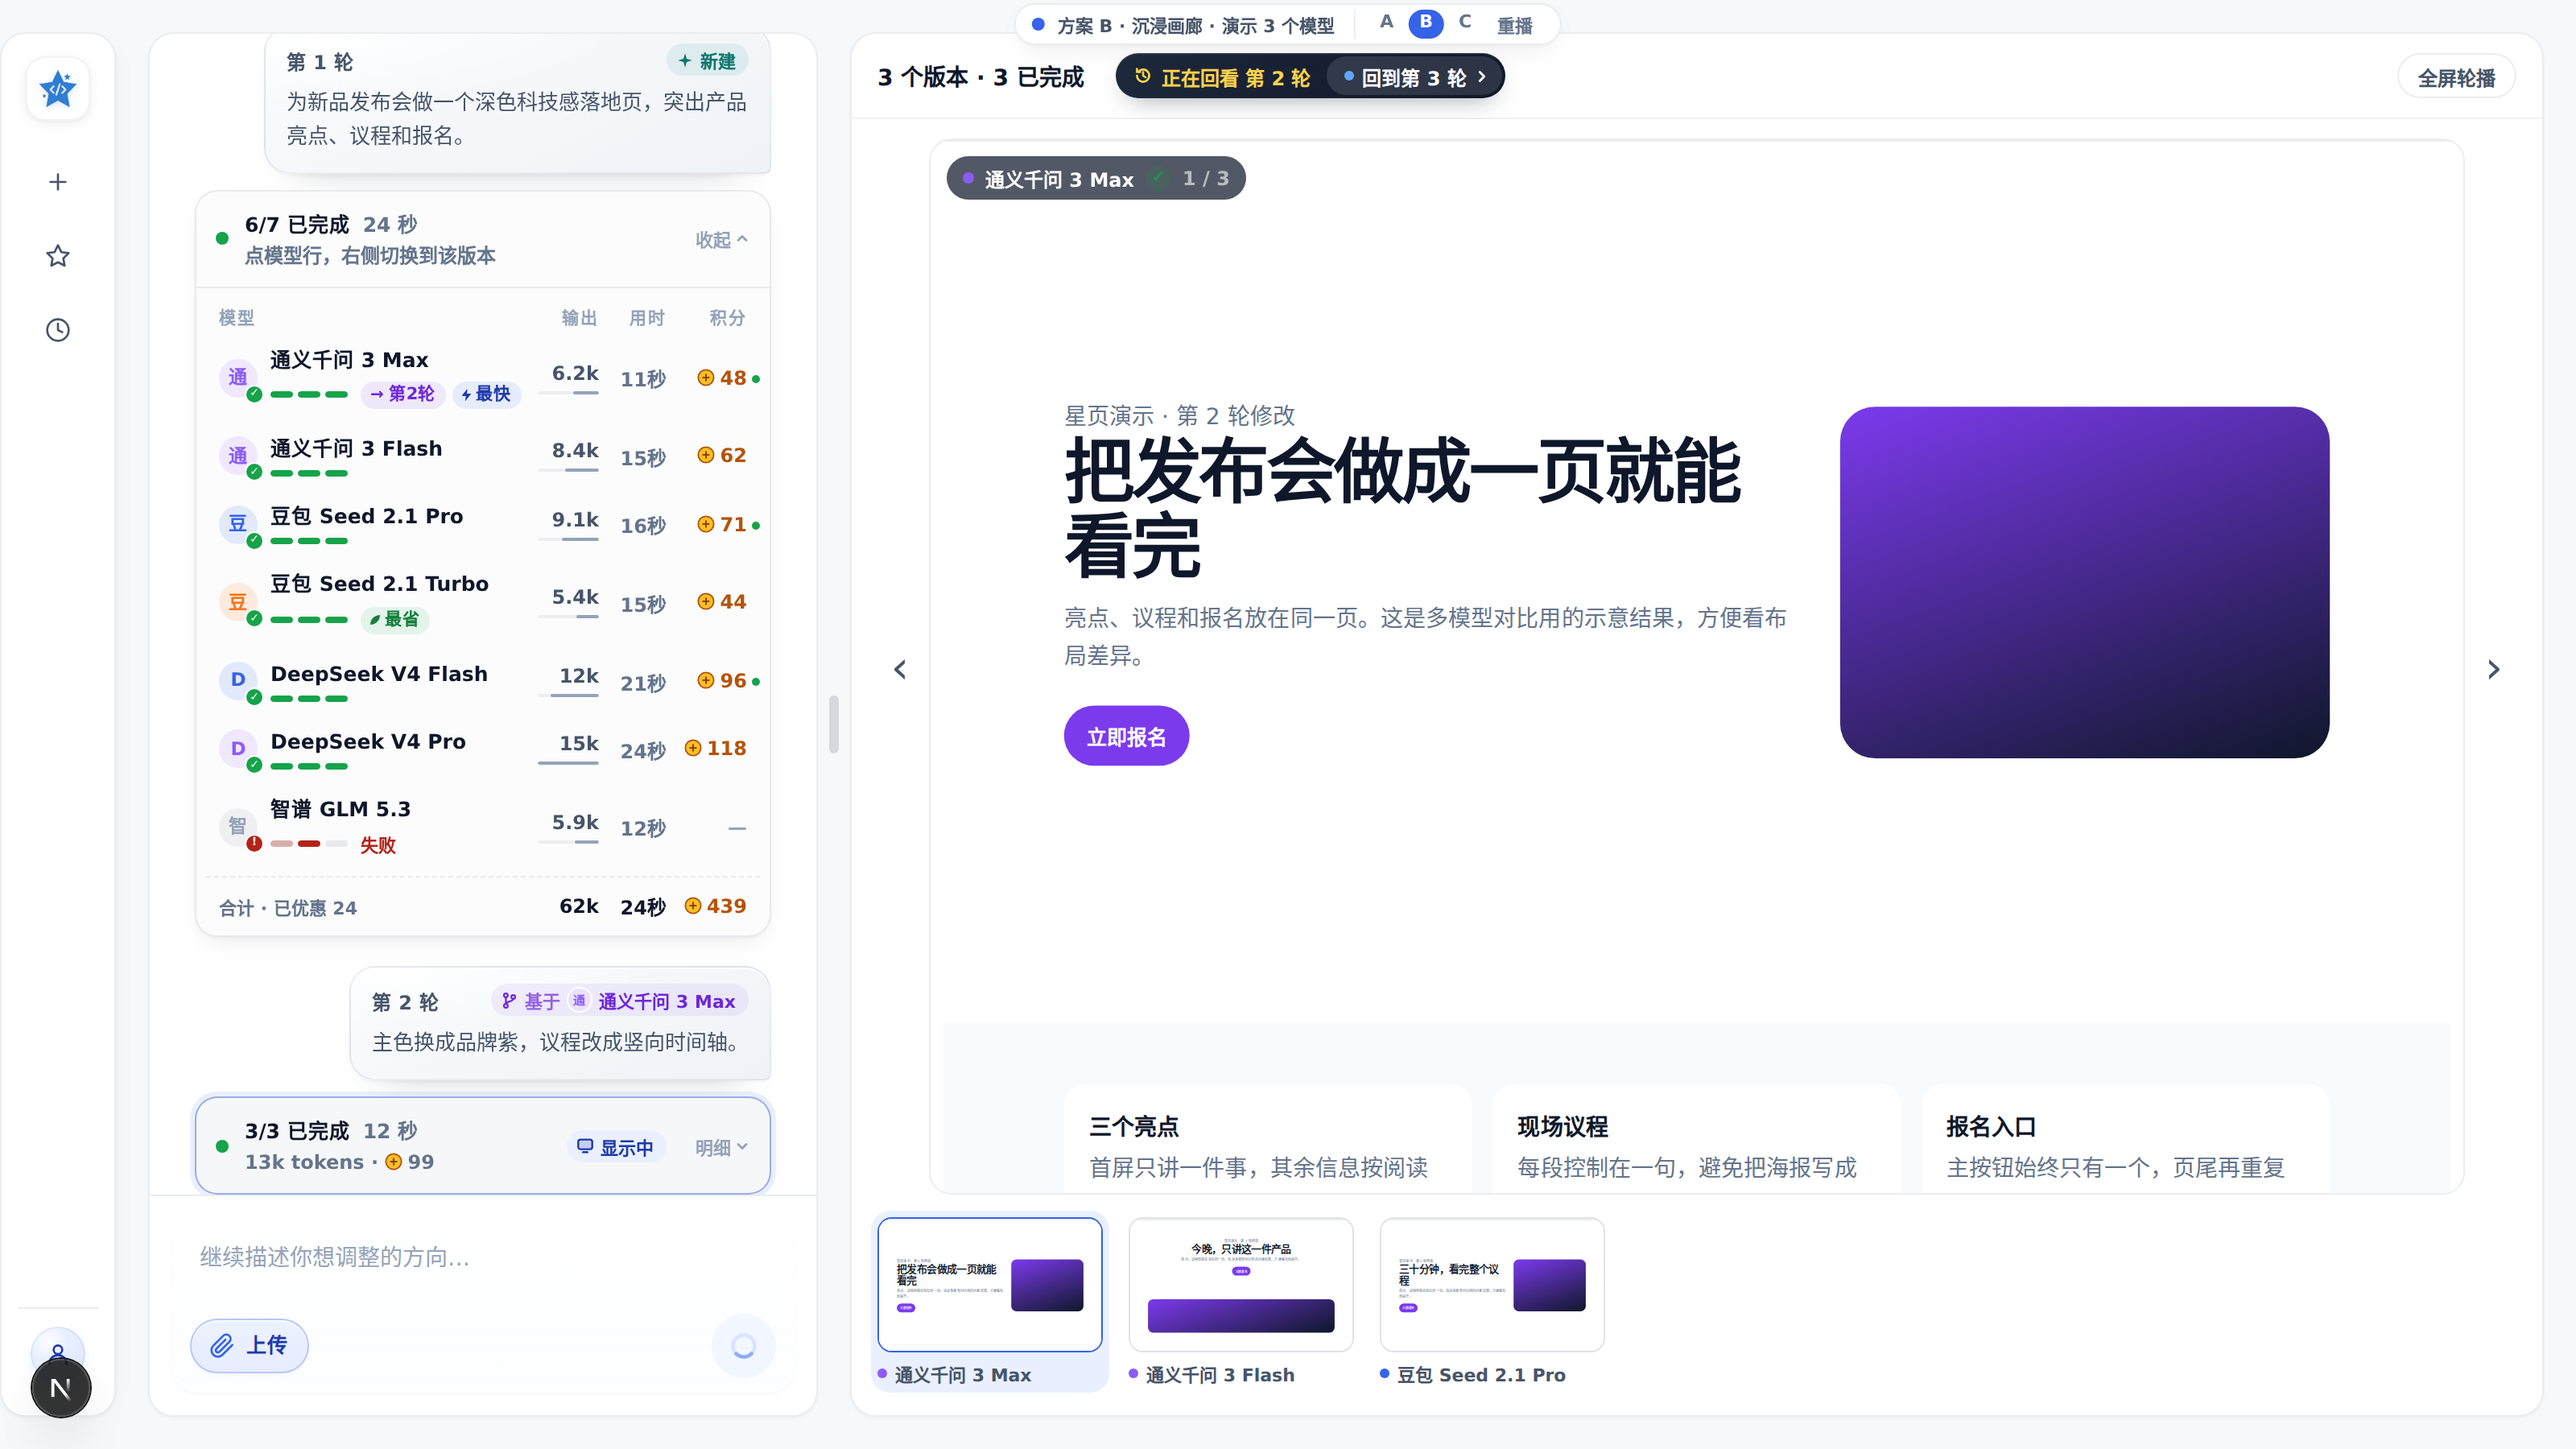
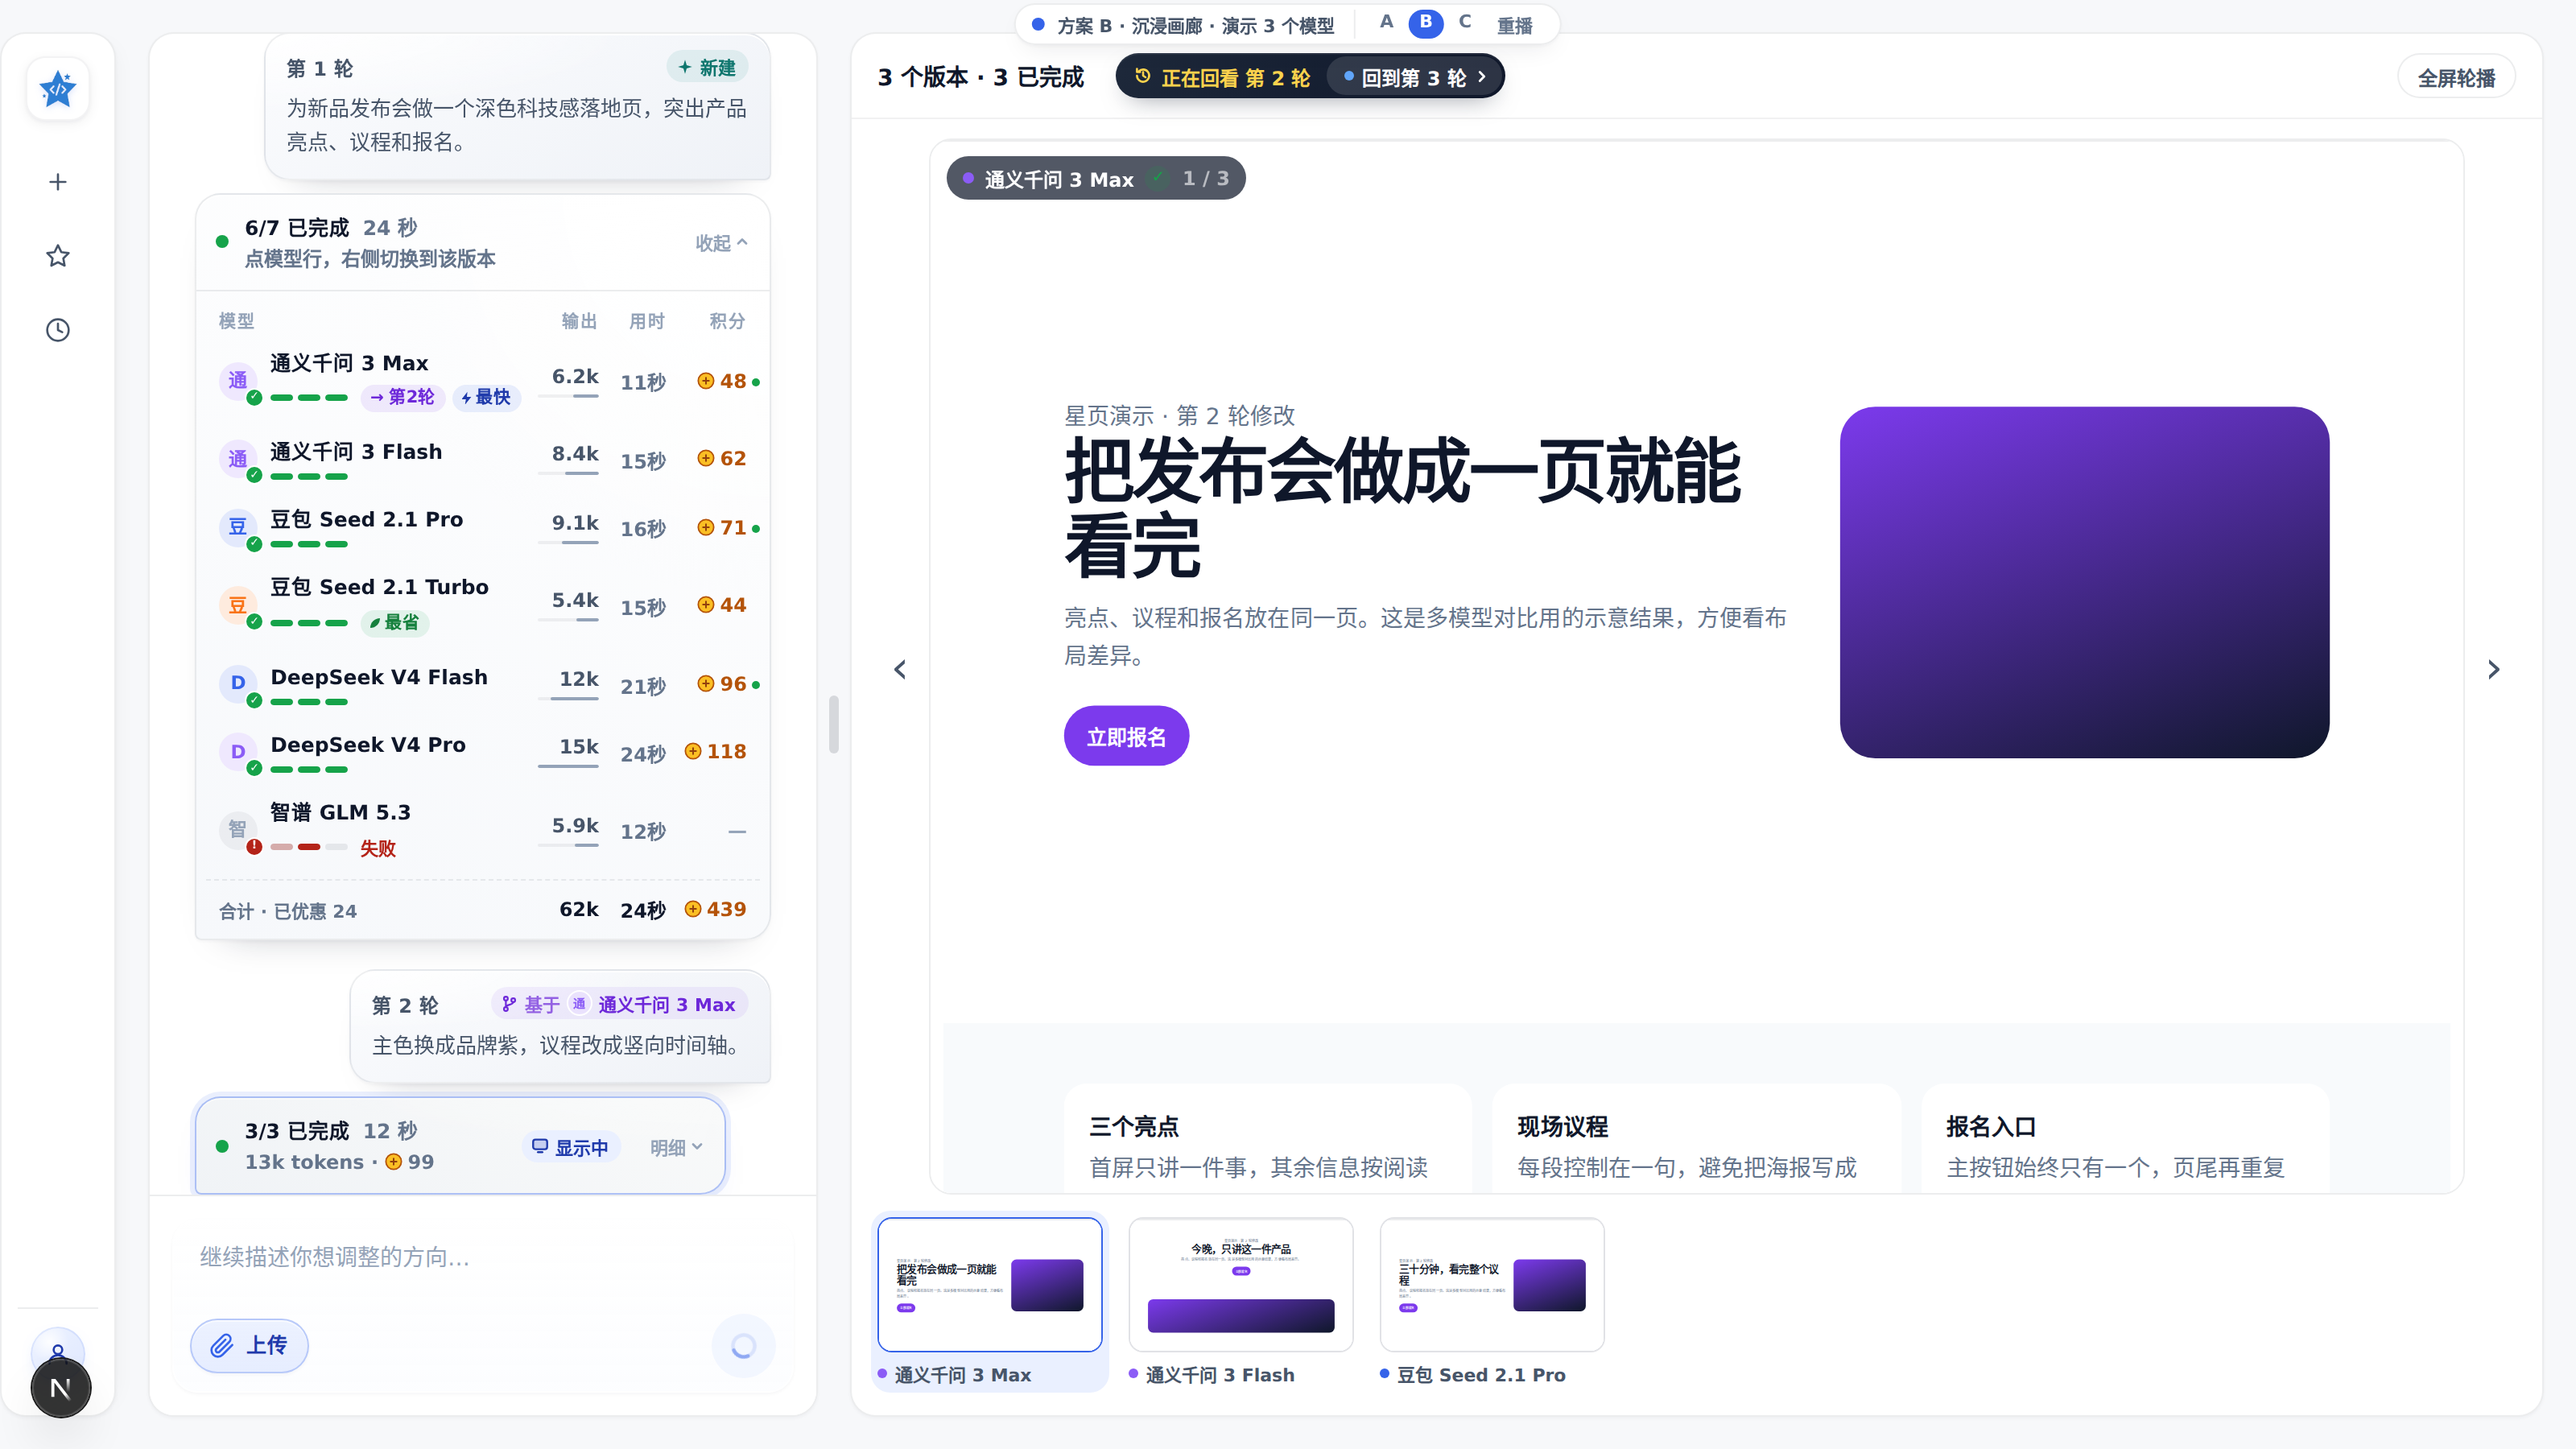
ux(B): 进度卡改为靠左的回复气泡，窄栏下明细只留箭头

diff --git a/code/frontend/app/components/workspace/variants.css b/code/frontend/app/components/workspace/variants.css
@@ -531,7 +531,9 @@ body.is-resizing-panes iframe {
   align-items: center;
 }
 
-.vb-status-head .vb-pill { flex: 1; min-width: 0; }
+.vb-status-head .vb-pill { flex: 1 1 auto; min-width: 0; }
+
+.vb-status-head .vb-pill-text strong { white-space: nowrap; }
 
 /* 多轮：已结束的轮次在对话栏里退成一张淡卡，右侧在看它时描一圈主色 */
 .chat-round.is-past {
@@ -544,6 +546,41 @@ body.is-resizing-panes iframe {
 .layout-b .conversation-scroll > *,
 .chat-round.is-past > * {
   flex-shrink: 0;
+}
+
+/* 回复气泡：靠左、宽度随内容，左下角收成尖角，和右下尖角的用户气泡一来一回；质感与用户气泡同一套 */
+.layout-b .conversation-scroll .vb-status {
+  align-self: flex-start;
+  width: calc(100% - 28px);
+  margin-top: 0;
+  border: 1px solid rgba(15, 23, 42, 0.08);
+  border-radius: 16px 16px 16px 4px;
+  background:
+    radial-gradient(120% 90% at 100% 0%, #fff 0%, rgba(255, 255, 255, 0) 60%),
+    linear-gradient(205deg, #ffffff 0%, #f6f8fb 100%);
+  box-shadow:
+    inset 0 1px 0 #fff,
+    0 1px 2px rgba(15, 23, 42, 0.04),
+    0 12px 24px -20px rgba(15, 23, 42, 0.4);
+}
+
+.layout-b .conversation-scroll .vb-status.is-open { width: 100%; }
+
+.layout-b .conversation-scroll .vb-status { container-type: inline-size; }
+
+/* 栏宽拖到很窄时，「明细」只留箭头，把位置让给摘要数字 */
+@container (max-width: 300px) {
+  .vb-more-label { display: none; }
+  .vb-more-btn { padding: 0 12px 0 4px; }
+  .vb-status-head .vb-pill { gap: 8px; }
+}
+
+.layout-b .conversation-scroll .vb-status.is-viewing {
+  border-color: color-mix(in srgb, var(--color-primary) 40%, transparent);
+  box-shadow:
+    inset 0 1px 0 #fff,
+    0 0 0 3px color-mix(in srgb, var(--color-primary) 10%, transparent),
+    0 12px 24px -18px rgba(53, 99, 233, 0.5);
 }
 
 /* 用户气泡：左上角一层柔光 + 斜向渐变 + 顶部内高光，做出纸张般的层次；当前轮偏蓝，历史轮偏冷灰 */
@@ -583,7 +620,6 @@ body.is-resizing-panes iframe {
 }
 
 .vb-status.is-history {
-  background: #fcfcfd;
   transition: box-shadow 0.18s ease, border-color 0.18s ease;
 }
 
@@ -625,10 +661,23 @@ body.is-resizing-panes iframe {
   transition: opacity 0.15s ease;
 }
 
+/* 「查看」只是悬停提示：浮在右侧、不占位，避免平时挤压摘要文字 */
+.vb-status-head { position: relative; }
+
 .vb-showing.is-hint {
-  background: rgba(15, 23, 42, 0.05);
-  color: var(--color-text-tertiary);
+  position: absolute;
+  top: 50%;
+  right: 64px;
+  background: #fff;
+  box-shadow: 0 0 0 1px rgba(15, 23, 42, 0.08), 0 4px 10px -6px rgba(15, 23, 42, 0.3);
+  color: var(--color-text-secondary);
   opacity: 0;
+  pointer-events: none;
+  transform: translateY(-50%);
+}
+
+@container (max-width: 300px) {
+  .vb-showing.is-hint { right: 40px; }
 }
 
 .vb-pill:hover .vb-showing.is-hint,

diff --git a/code/frontend/app/components/workspace/variant-b.tsx b/code/frontend/app/components/workspace/variant-b.tsx
@@ -131,7 +131,7 @@ export function VariantBProgress({ history }: { history?: PastRoundProps } = {})
         </button>
         {view && (
           <button type="button" className="vb-more-btn" aria-expanded={open} onClick={toggle} title={open ? "收起明细" : "展开明细"}>
-            {open ? "收起" : "明细"}
+            <span className="vb-more-label">{open ? "收起" : "明细"}</span>
             <svg viewBox="0 0 10 10" aria-hidden="true">
               <path d="M2.5 3.75 5 6.25l2.5-2.5" />
             </svg>

diff --git a/doc/20261109/generation-progress-compare-variants.md b/doc/20261109/generation-progress-compare-variants.md
@@ -66,6 +66,8 @@
     - 去掉结果区右上角的轮次切换（轮次多时放不下），只通过对话栏点进度卡切换轮次。回看时，标题旁的胶囊仍然可以一键回到最新。
     - 进度卡上的「选用」标签去掉了，因为意思不清楚；下一轮气泡上的「基于 某模型」已经说明了来源。明细表里，被下一轮拿去修改的那个模型带「→第2轮」标签，悬停显示「第 2 轮基于这个结果修改」。
     - 修复：对话内容超过栏高时，进度卡被压扁、和气泡叠在一起。原因是对话栏是纵向弹性布局，带溢出裁剪的卡片会被允许收缩；现已禁止对话栏里的卡片和气泡收缩。窄栏下「第 4 轮 · 当前」不再折成两行，长模型名在来源标签里省略。截图：`b-multi-short-pane.png`（640px 高窗口）。
+    - 进度卡改成「回复气泡」：靠左，右侧留出 28px，与靠右的用户气泡错开。左下角收成尖角，和用户气泡的右下尖角相对。质感与用户气泡同一套（柔光、渐变、内高光、投影）。展开明细时占满整栏，给表格留空间。
+    - 栏很窄时（卡片不足 300px），「明细」只留箭头。「查看」改为悬停时浮出、不占位，摘要数字不再被挤成省略号。
   - 截图：`images/20261109/gen-ui-variants/b-multi-live.png`（第 3 轮生成中）、`b-multi-view-r1.png`（回看第 1 轮）、`b-multi-r1-detail.png`（第 1 轮明细联动）、`b-multi-tab-r2.png`（右侧切到第 2 轮）、`b-multi-done.png`（第 3 轮完成）。
 
 ## 状态与后续
